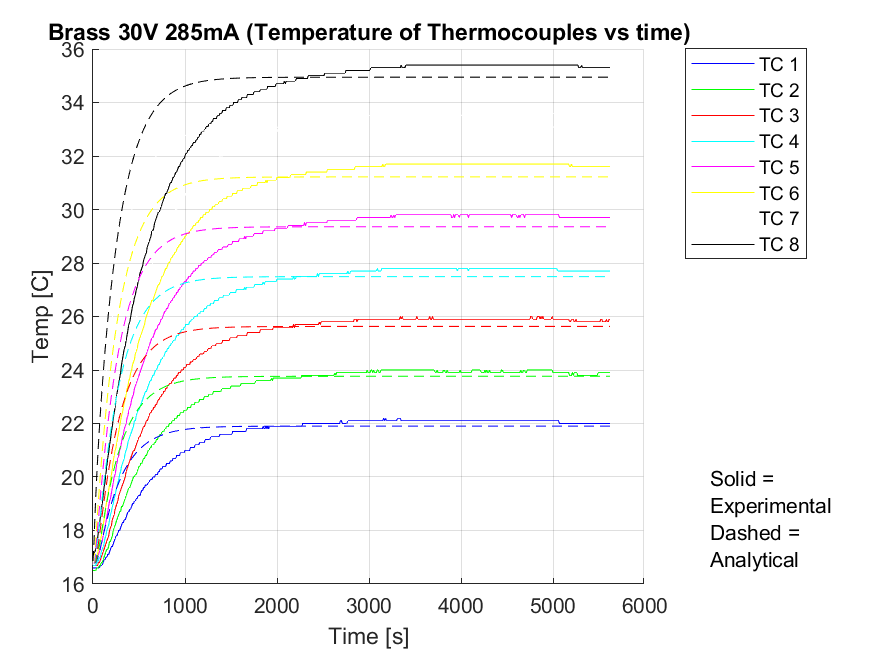
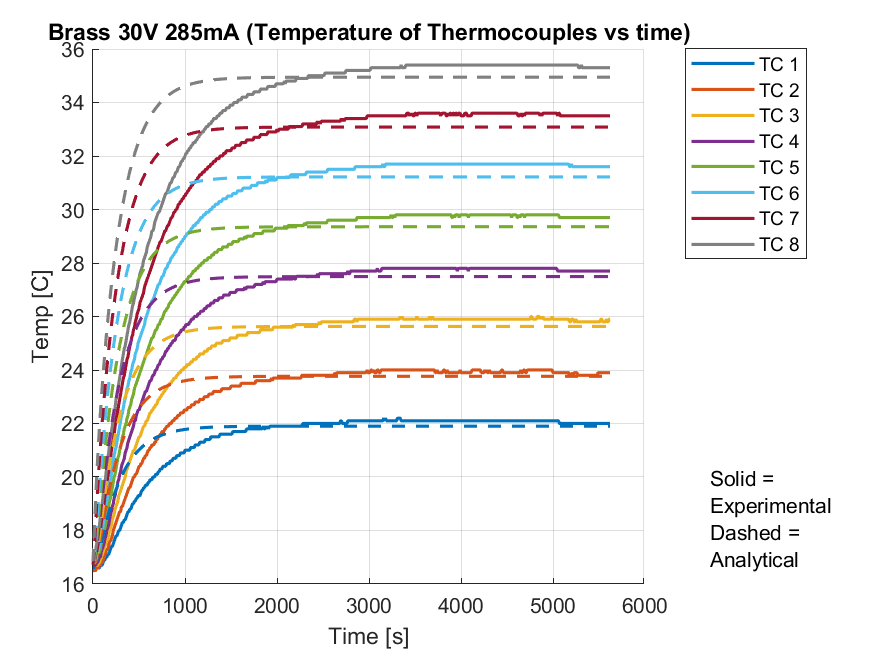
updated plots

diff --git a/Part2main.m b/Part2main.m
@@ -4,7 +4,17 @@ clc;clear;close all;
 
 
 % test order Al25V_240ma, Al30V_290ma,Brass25V_237ma, Brass30V_285ma, Steel22V_203ma
-colors = ['b','g','r','c','m','y','w','k']; %used for plotting later on
+%colors = ['b','g','r','c','m','g','orange','k']; %used for plotting later on
+colors = [
+    0.0000 0.4470 0.7410;   % Blue
+    0.8500 0.3250 0.0980;   % Orange
+    0.9290 0.6940 0.1250;   % Yellow
+    0.4940 0.1840 0.5560;   % Purple
+    0.4660 0.6740 0.1880;   % Green
+    0.3010 0.7450 0.9330;   % Cyan
+    0.6350 0.0780 0.1840;   % Red
+    0.5    0.5    0.5       % Gray
+];
 %% test properties
 cases = 5; % number of tests conducted
 V = [25,30,25,30,22]; %test voltages
@@ -64,7 +74,7 @@ for i = 1:length(files)
    figure(i)
    hold on;
    for q=1:8
-   plot(t(i).time, couples(:,q),"Color",colors(q)) %plots experimental data as a solid line
+   plot(t(i).time, couples(:,q),"Color",colors(q,:),"LineWidth",1.5) %plots experimental data as a solid line
    
    end
    
@@ -85,7 +95,7 @@ U(z).u = u; % structure containing all analytical data so it isnt overwritten
 %Plot analytical for each case over the existing experimental data plots
 figure(z);
     for i=1:8 %line for each thermocouple
-        plot(t(z).time,u(:,i),"Color",colors(i),"LineStyle", "--");
+        plot(t(z).time,u(:,i),"Color",colors(i,:),"LineStyle", "--","LineWidth",1.5);
         hold on
     end
 % creating a legend that is easy to understand
